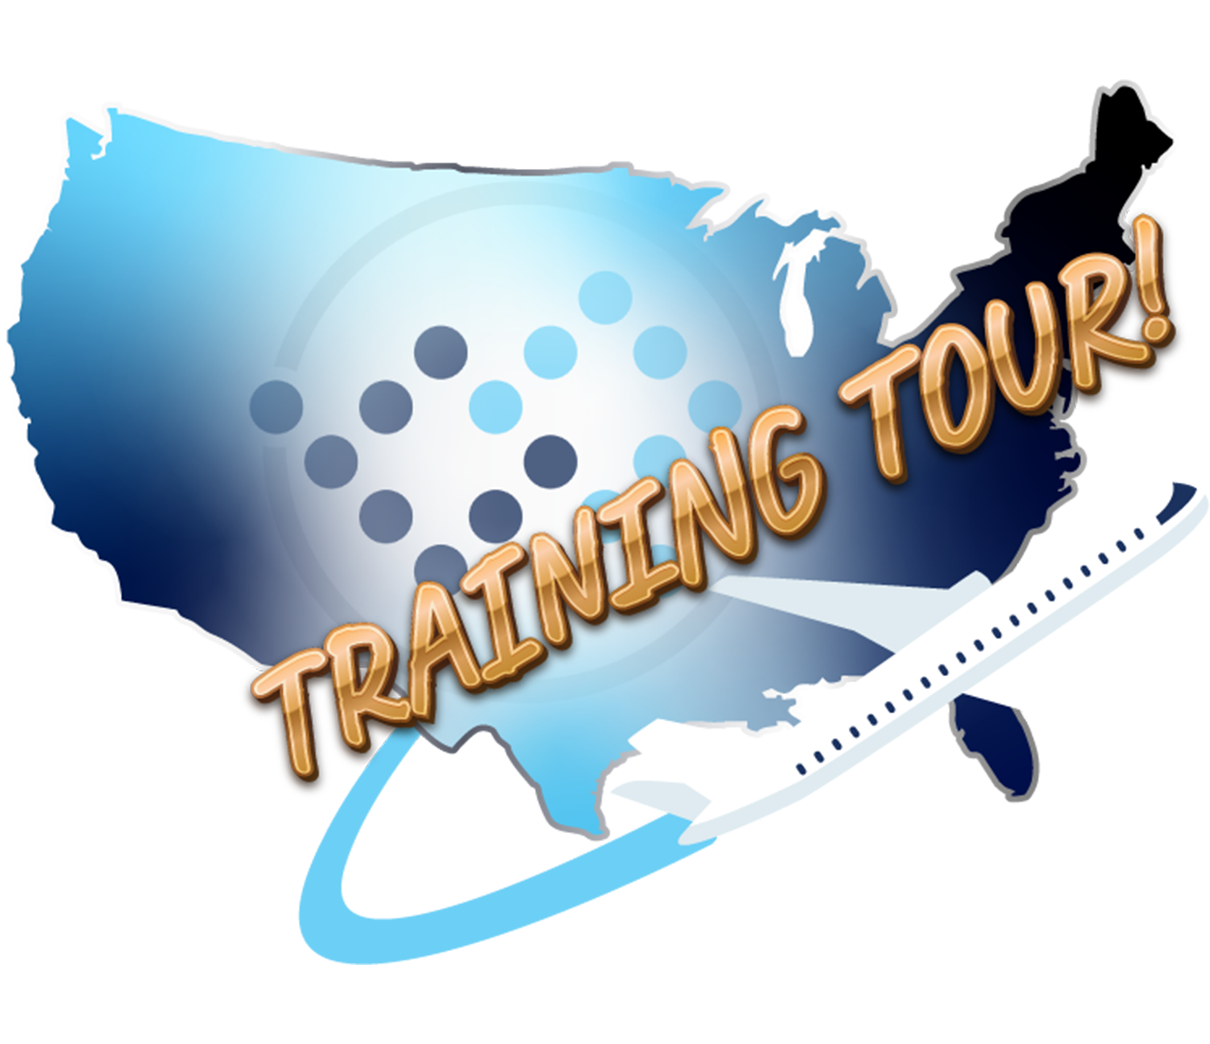
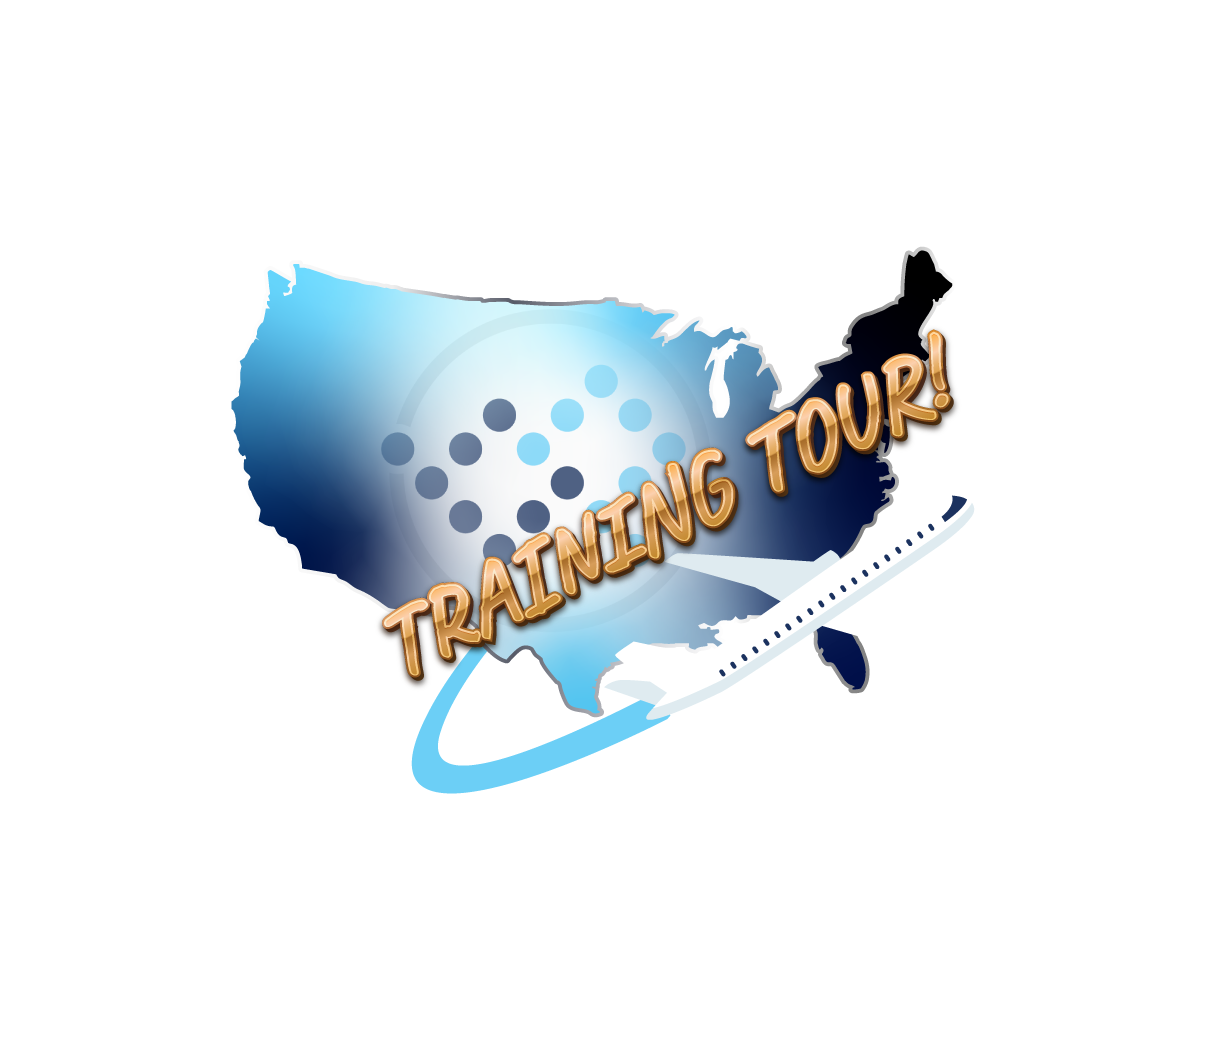
Add files via upload

diff --git a/index.html b/index.html
@@ -43,6 +43,10 @@
         html {
             font-family: canada-type-gibson, Arial, sans-serif !important;
         }
+        @font-face {
+            font-family: "Orange Blossom";
+            src: url("webfonts/Orange\ Blossom.ttf") format("truetype");  /* Update path to your font file */
+        }        
     </style>
 
     <link rel="stylesheet" href="https://use.typekit.net/fdp3qaw.css">
@@ -4436,7 +4440,8 @@
     <style>
         .TopBar {
             transition: margin .25s ease;
-            background: #6CCFF6;
+            background: rgb(242,169,4);
+            background: linear-gradient(90deg, rgba(242,169,4,1) 0%, rgba(250,238,120,1) 50%, rgba(242,169,4,1) 100%);
         }
 
         .has-menu .TopBar {
@@ -4459,9 +4464,11 @@
         }
 
         .TopBar-copy a {
+            font-family: "Orange Blossom", canada-type-gibson, Arial, sans-serif !important;
             text-decoration: none;
             color: #1B325E;
         }
+        
 
         .TopBar-copy a:hover {
             text-decoration: underline
@@ -4952,7 +4959,7 @@
         @media screen and (min-width:75em) {
             .rs-PrimaryNav-menu {
                 display: flex;
-                justify-content: flex-start;
+                justify-content: center;
                 margin: auto;
                 padding: 0 16px
             }
@@ -9766,7 +9773,7 @@
                 }
 
                 .rs-Section--paddingBottom4xl\@lg {
-                    padding-bottom: 96px
+                    padding-bottom: 0px
                 }
 
                 .rs-Section--paddingBottom5xl\@lg {
@@ -9799,30 +9806,30 @@
 
             <style>
                 [data-mgnl-id="d8381992-e81c-4723-9894-f1b7c1d5ae51"] {
-                    background: scroll url('images/background-desktop-large.png') bottom center / cover no-repeat;
+                    background: scroll url('images/banner.png') bottom center / cover no-repeat;
                 }
 
                 @media only screen and (min-width: 37.5em) {
                     [data-mgnl-id="d8381992-e81c-4723-9894-f1b7c1d5ae51"] {
-                        background: scroll url('images/background-desktop-large.png') top center / cover no-repeat;
+                        background: scroll url('images/banner.png') top center / cover no-repeat;
                     }
                 }
 
                 @media only screen and (min-width: 56.25em) {
                     [data-mgnl-id="d8381992-e81c-4723-9894-f1b7c1d5ae51"] {
-                        background: scroll url('images/background-desktop-large.png') top center / cover no-repeat;
+                        background: scroll url('images/banner.png') top center / cover no-repeat;
                     }
                 }
 
                 @media only screen and (min-width: 75em) {
                     [data-mgnl-id="d8381992-e81c-4723-9894-f1b7c1d5ae51"] {
-                        background-image: 'images/background-desktop-large.png' top center / cover no-repeat;
+                        background-image: 'images/banner.png' top center / cover no-repeat;
                     }
                 }
 
                 @media only screen and (min-width: 112.5em) {
                     [data-mgnl-id="d8381992-e81c-4723-9894-f1b7c1d5ae51"] {
-                        background: scroll url('images/background-desktop-large.png') top center / cover no-repeat;
+                        background: scroll url('images/banner.png') top center / cover no-repeat;
                     }
                 }
             </style>
@@ -10826,7 +10833,7 @@
                         <div class="rs-Image u-spacingBlockSm rs-Image--horizontalAlignCenter">
 
                             <picture>
-                                <img src="images/tour.png"
+                                <img src="images/tour-cropped.png"
                                     alt="Training Tour" class="rs-Image-element rs-Image-element" loading="lazy"
                                     fetchpriority="auto">
                             </picture>
